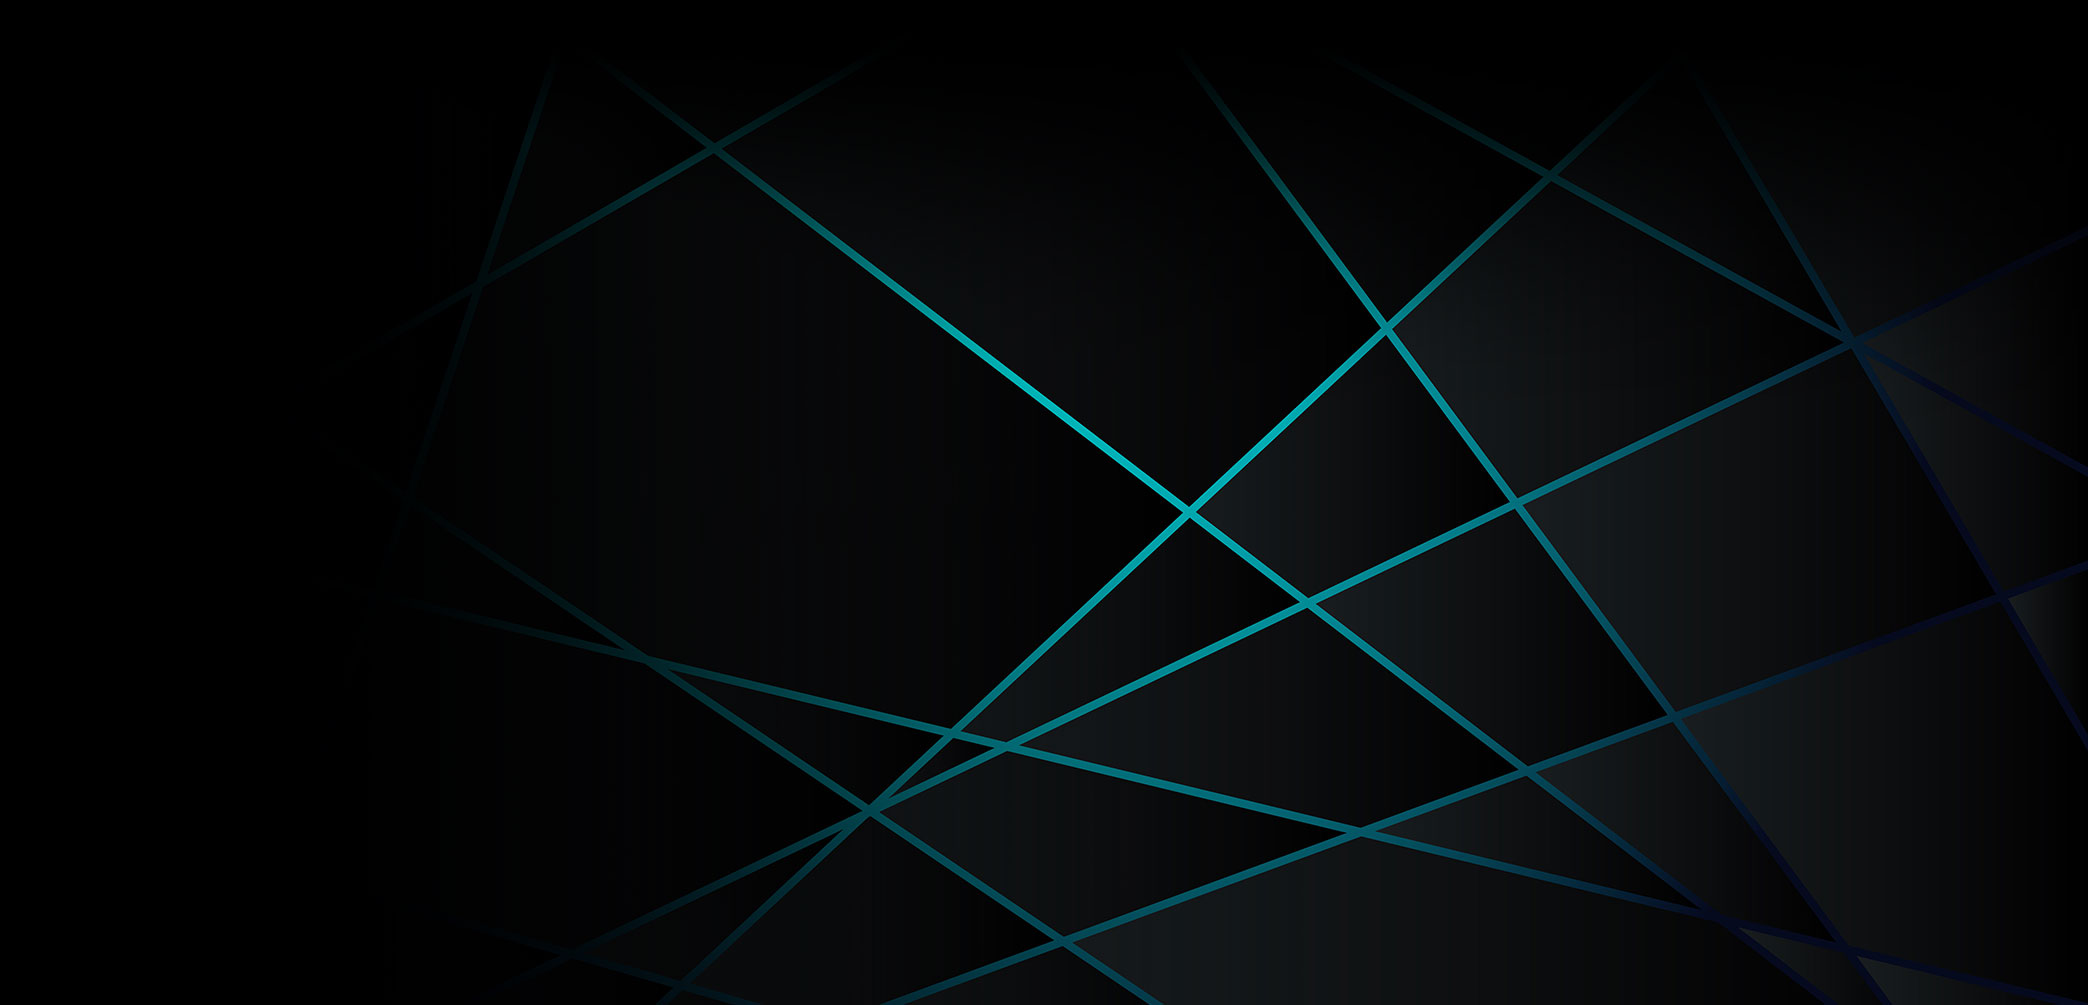
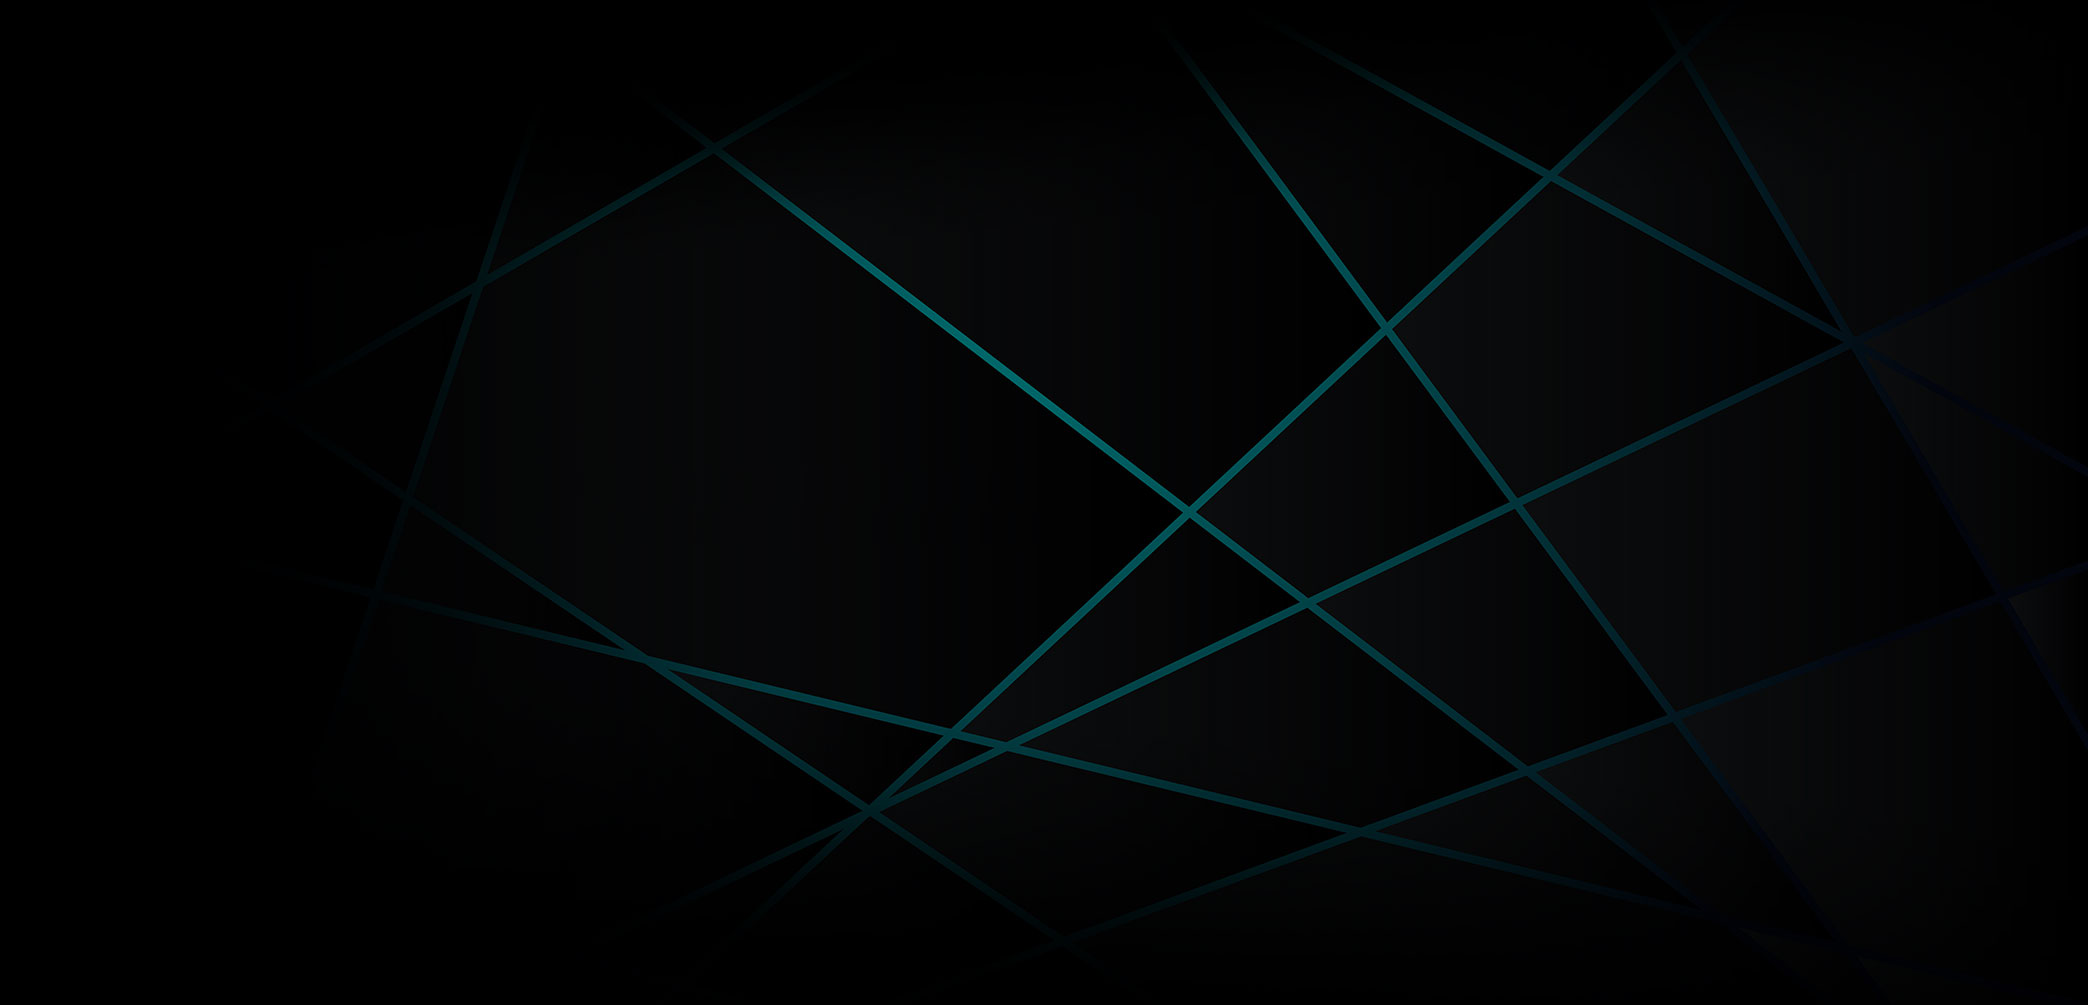
close mobile nav on link click, mobile updates for integration/home

diff --git a/pages/index.tsx b/pages/index.tsx
@@ -3,7 +3,8 @@ import Image from 'next/image'
 import Link from 'next/link'
 import ShopifyBuyButton from '../components/ShopifyBuyButton'
 import SecurityWarning from '../components/SecurityWarning'
-import styles from '../styles/pages/Home.module.scss'
+// import styles from '../styles/pages/Home.module.scss'
+import heroBgImage from 'public/images/heros/home.png'
 import walletImage from 'public/images/hardware/wallet-hero.png'
 import computerLockImage from 'public/images/icons/computer-lock.svg'
 import backupImage from 'public/images/icons/backup.svg'
@@ -32,37 +33,49 @@ export default function Home() {
 
 const Hero = () => {
   return(
-    <div className={`${styles.hero} bg-cover bg-no-repeat bg-center flex items-center pt-44 pb-20 lg:py-12 bg-black`}>
-    <div className="container relative grid lg:grid-cols-[730px_1fr] items-center">
-      <div>
-        <h1 className="text-4xl leading-tight tracking-wide lg:text-6xl lg:leading-tight font-bold text-white mb-4">The Next Frontier <br/> of Crypto Security</h1>
-        <p className="text-xl leading-relaxed lg:text-2xl lg:leading-relaxed text-white mb-8  tracking-wide">Protect your cryptocurrencies, store your private keys offline, and safeguard your 
-          assets from hackers. It’s time to achieve financial freedom in the most secure way with KeepKey.</p>
-        <div className="text-left">
-          <div className="mr-4 mb-4 sm:mr-4 inline-block">
-            <ShopifyBuyButton></ShopifyBuyButton>
-          </div>
-          <Link href="/onboarding">
-            <a className="btn btn-lg btn--transparent">Get Started</a>
-          </Link>
-        </div>
-
-      </div>
-      <div className="w-full mx-auto max-w-[200px] md:max-w-[400px] lg:max-w-[500px] mt-10 lg:mt-40">
-        <Image
-          alt="KeepKey wallet"
-          src={walletImage}
-          height={800}
-          unoptimized={true}
-          objectFit="cover"
-          priority={true}
-          // objectPosition="center"
-          layout="responsive"
-                  >
+    <div className="relative z-0 pt-44 pb-20 lg:py-4 bg-black">
+      <Image
+        src={heroBgImage}
+        alt='keepkey wallet on desk'
+        layout="fill"
+        objectFit="cover"
+        quality={100}
+        objectPosition="center"
+        priority={true}
+        >
         </Image>
+      <div className="flex items-center">
+        <div className="container relative grid lg:grid-cols-[730px_1fr] items-center">
+          <div>
+            <h1 className="text-4xl leading-tight tracking-wide lg:text-6xl lg:leading-tight font-bold text-white mb-4">The Next Frontier <br/> of Crypto Security</h1>
+            <p className="text-xl leading-relaxed lg:text-2xl lg:leading-relaxed text-white mb-8  tracking-wide">Protect your cryptocurrencies, store your private keys offline, and safeguard your 
+              assets from hackers. It’s time to achieve financial freedom in the most secure way with KeepKey.</p>
+            <div className="text-left">
+              <div className="mr-4 mb-4 sm:mr-4 inline-block">
+                <ShopifyBuyButton></ShopifyBuyButton>
+              </div>
+              <Link href="/onboarding">
+                <a className="btn btn-lg btn--transparent">Get Started</a>
+              </Link>
+            </div>
+
+          </div>
+          <div className="w-full mx-auto max-w-[200px] md:max-w-[400px] lg:max-w-[500px] lg:mt-40">
+            <Image
+              alt="KeepKey wallet"
+              src={walletImage}
+              height={760}
+              unoptimized={true}
+              objectFit="cover"
+              priority={true}
+              // objectPosition="center"
+              layout="responsive"
+                      >
+            </Image>
+          </div>
+        </div>
       </div>
     </div>
-  </div>
   )
 }
 

diff --git a/pages/onboarding.tsx b/pages/onboarding.tsx
@@ -2,9 +2,9 @@ import Image from 'next/image'
 import Link from 'next/link'
 import shapeShiftDemoWalletImg from 'public/images/hardware/shapeshift-with-keepkey.png'
 import shapeShiftDemoImg from 'public/images/software/shapeshift-demo-mac-md.png'
-import styles from '../styles/pages/Onboarding.module.scss'
 import heroBgImage from 'public/images/heros/golden-lines-lg.jpg'
 import SecurityWarning from "../components/SecurityWarning"
+
 export default function Onboarding() {
   return (
     <>
@@ -17,36 +17,34 @@ export default function Onboarding() {
 
 const Hero = () => {
   return(
-    <>
-      <div className="relative z-0 py-80 bg-black">
-        <Image
-        src={heroBgImage}
-        alt='keepkey wallet on desk'
-        layout="fill"
-        objectFit="cover"
-        quality={100}
-        objectPosition="center"
-        priority={true}
-        >
-        </Image>
-        <div className="container relative grid xl:grid-cols-2 items-center z-10">
-          <div>
-            <h1 className="text-5xl leading-tight tracking-wide font-bold text-white mb-4">KeepKey Works Seamlessly with the ShapeShift Platform</h1>
-            <p className="text-2xl text-white mb-8 leading-relaxed tracking-wide">Follow the guide below to get started using your KeepKey.</p>
+    <div className="relative z-0 pt-44 pb-20 xl:py-72 bg-black">
+      <Image
+      src={heroBgImage}
+      alt='keepkey wallet on desk'
+      layout="fill"
+      objectFit="cover"
+      quality={100}
+      objectPosition="center"
+      priority={true}
+      >
+      </Image>
+      <div className="container relative grid lg:grid-cols-2 items-center z-10">
+        <div>
+          <h1 className="text-4xl leading-tight tracking-wide lg:text-6xl lg:leading-tight font-bold text-white mb-4">KeepKey Works Seamlessly with the ShapeShift Platform</h1>
+          <p className="text-xl leading-relaxed lg:text-2xl lg:leading-relaxed text-white mb-8 tracking-wide">Follow the guide below to get started using your KeepKey.</p>
 
-          </div>
-            <div className="absolute max-w-[850px] top-[-50px] right-[-150px]">
-              <Image
-                alt="KeepKey wallet"
-                src={shapeShiftDemoWalletImg}
-                quality={100}
-                        >
-              </Image>
-            </div>
         </div>
-
+          <div className="xl:absolute xl:max-w-[700px] xl:right-0 2xl:max-w-[850px] top-[-100px] 2xl:right-[-150px]">
+            <Image
+              alt="KeepKey wallet"
+              src={shapeShiftDemoWalletImg}
+              quality={100}
+                      >
+            </Image>
+          </div>
       </div>
-  </>
+
+    </div>
   )
 }
 
@@ -105,7 +103,7 @@ const steps: Step[] = [
 const Step = (props: Step) => {
   return (
     <div className="divide-y">
-      <div className="grid lg:grid-cols-2 gap-24 align-center py-40 pb-20 border-solid border-2 border-blue-900">
+      <div className="grid xl:grid-cols-2 gap-16 xl:gap-26 2xl:gap-36 align-center py-40 pb-20 border-solid border-2 border-blue-900">
         <div>
           <h3 className="mb-6" dangerouslySetInnerHTML={{__html: props.title}}></h3>
           <p className="mb-6" dangerouslySetInnerHTML={{__html: props.description}}></p>

diff --git a/pages/integration-guide.tsx b/pages/integration-guide.tsx
@@ -28,13 +28,13 @@ const Hero = () => {
         layout="fill"
         objectFit="cover"
         quality={100}
-        objectPosition="center center"
+        objectPosition="top right"
         priority={true}
         >
         </Image>
         <div className="container relative grid xl:grid-cols-[650px_1fr] items-center z-10">
           <div>
-            <h1 className="text-6xl leading-tight tracking-wide font-bold text-white mb-4">Integration Guide</h1>
+            <h1 className="text-5xl lg:text-6xl leading-tight tracking-wide font-bold text-white mb-4">Integration Guide</h1>
             {/* <p className="text-2xl text-white mb-8 leading-relaxed tracking-wide">See below for a list of our recommendations.</p> */}
 
           </div>

diff --git a/components/navbar.tsx b/components/navbar.tsx
@@ -130,7 +130,7 @@ const MobileNav = (props) => {
               <button className="nav-mobile__category-item-link accordion-toggle" type="button">
               <div className="nav-mobile__category-item-layout">
                   <Link href={link.url}>
-                    <a className="nav-mobile__title-wrapper">
+                    <a onClick={props.handleClick} className="nav-mobile__title-wrapper">
                       <span className="nav-mobile__title">
                           <span>{link.name}</span>
                       </span>
